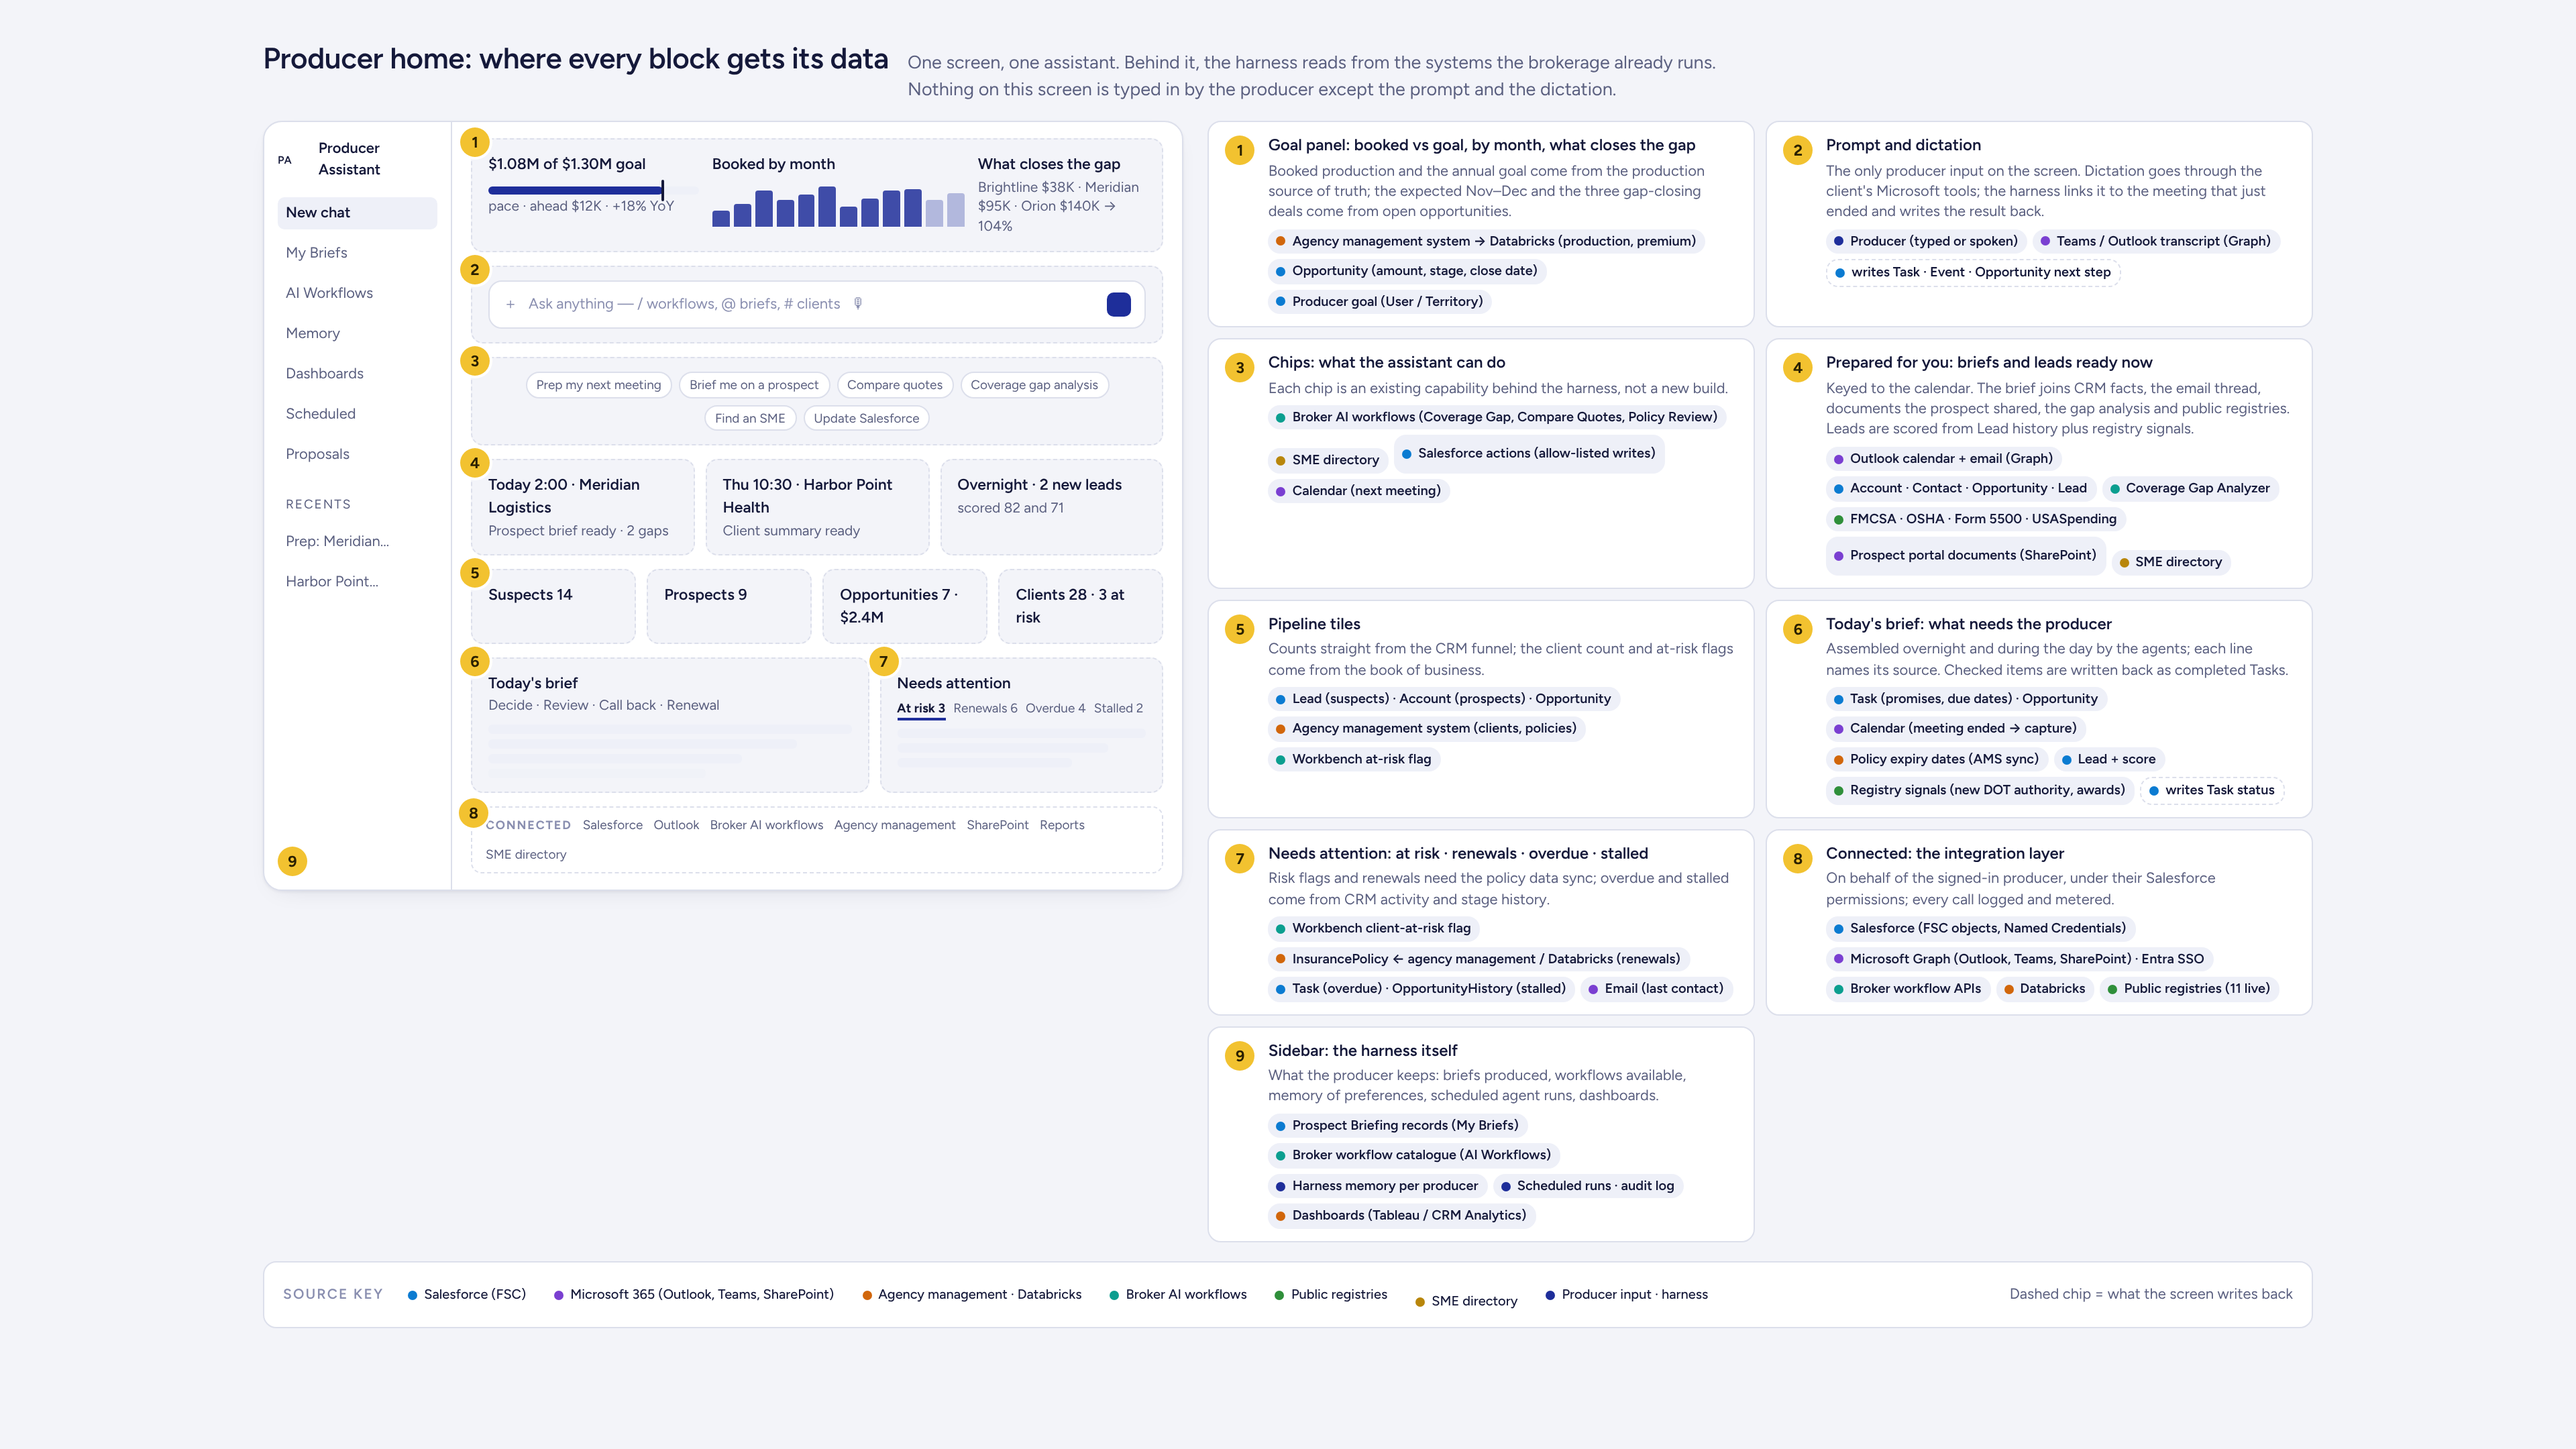
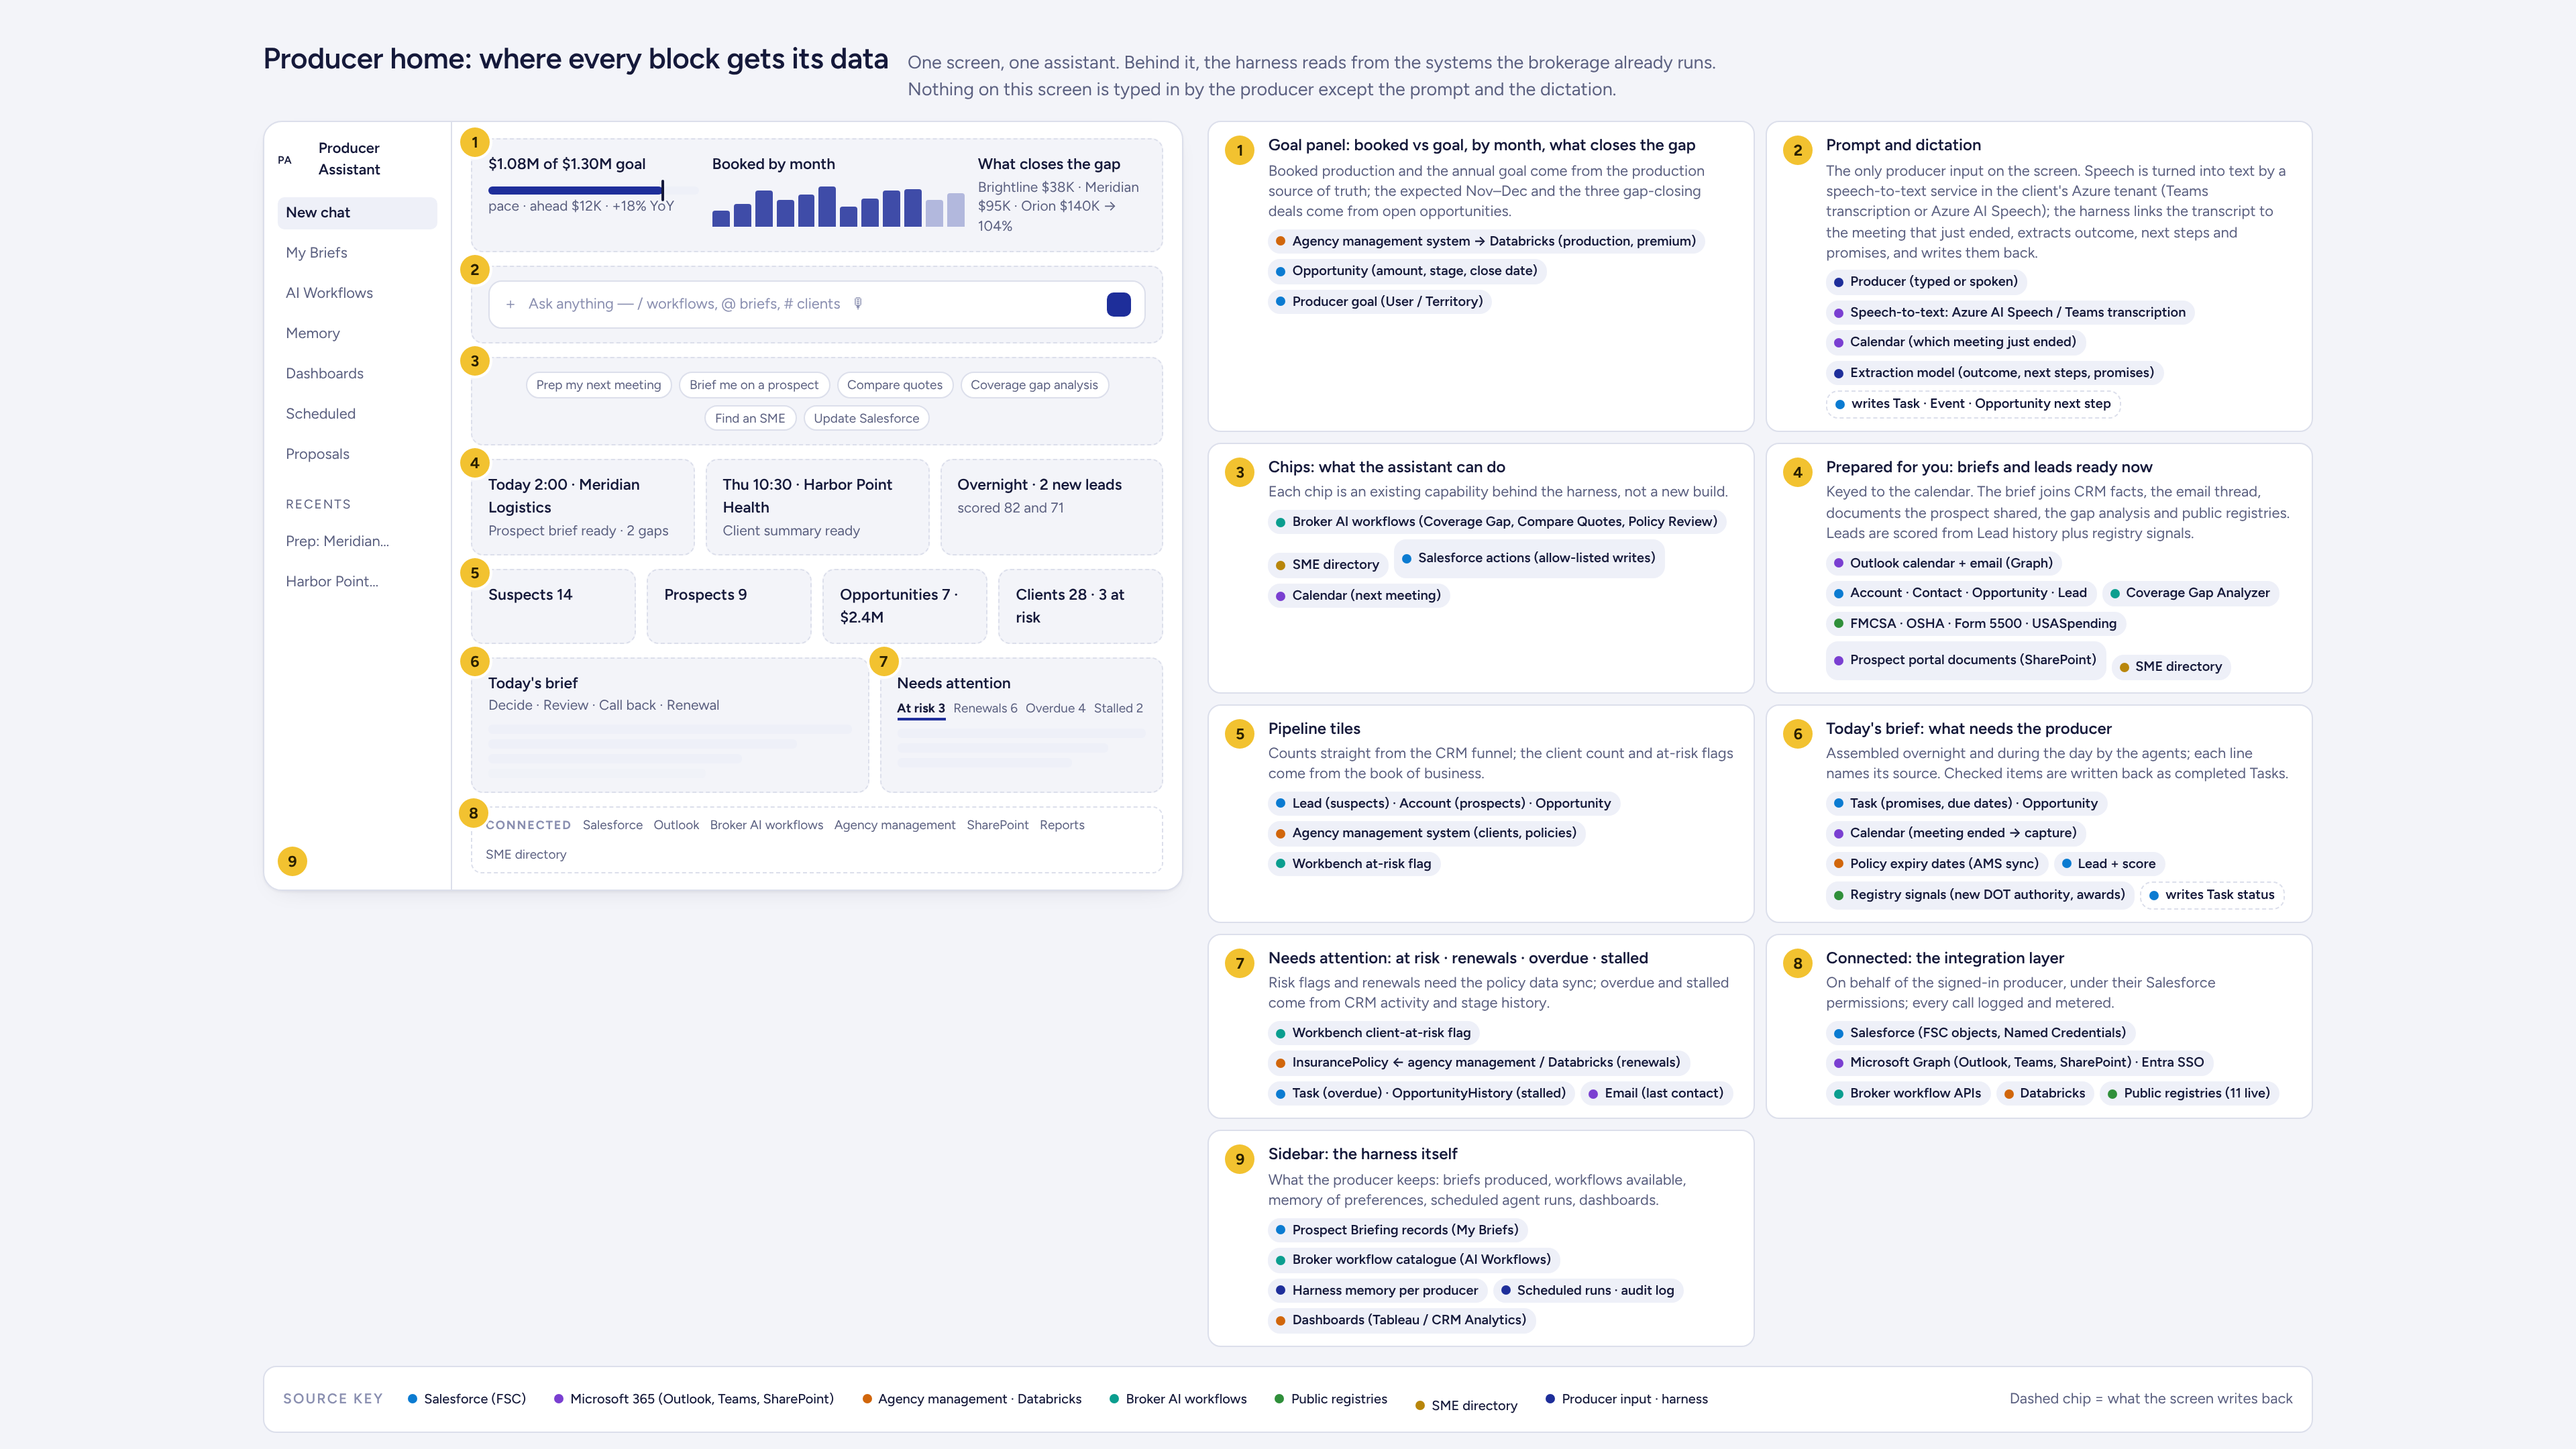
Data sources: name the speech-to-text step for dictation
Claude-Session: https://claude.ai/code/session_013wqjx2vbKkMPNAmFb2gjce

Changed region(s): [[0.6875, 0.0931, 0.875, 0.7755], [0.4688, 0.2171, 0.6562, 0.9306], [0.8438, 0.7444, 0.875, 0.7755]]

diff --git a/index.html b/index.html
@@ -783,7 +783,7 @@ h1,h2,h3{margin:0;text-wrap:balance}
           <!-- legend -->
           <div class="legend-list">
             <div class="lg"><span class="pin">1</span><div><b>Goal panel: booked vs goal, by month, what closes the gap</b><div class="d">Booked production and the annual goal come from the production source of truth; the expected Nov–Dec and the three gap-closing deals come from open opportunities.</div><div class="srcs"><span class="sc ams">Agency management system → Databricks (production, premium)</span><span class="sc sf">Opportunity (amount, stage, close date)</span><span class="sc sf">Producer goal (User / Territory)</span></div></div></div>
-            <div class="lg"><span class="pin">2</span><div><b>Prompt and dictation</b><div class="d">The only producer input on the screen. Dictation goes through the client's Microsoft tools; the harness links it to the meeting that just ended and writes the result back.</div><div class="srcs"><span class="sc in">Producer (typed or spoken)</span><span class="sc ms">Teams / Outlook transcript (Graph)</span><span class="sc sf w">writes Task · Event · Opportunity next step</span></div></div></div>
+            <div class="lg"><span class="pin">2</span><div><b>Prompt and dictation</b><div class="d">The only producer input on the screen. Speech is turned into text by a speech-to-text service in the client's Azure tenant (Teams transcription or Azure AI Speech); the harness links the transcript to the meeting that just ended, extracts outcome, next steps and promises, and writes them back.</div><div class="srcs"><span class="sc in">Producer (typed or spoken)</span><span class="sc ms">Speech-to-text: Azure AI Speech / Teams transcription</span><span class="sc ms">Calendar (which meeting just ended)</span><span class="sc in">Extraction model (outcome, next steps, promises)</span><span class="sc sf w">writes Task · Event · Opportunity next step</span></div></div></div>
             <div class="lg"><span class="pin">3</span><div><b>Chips: what the assistant can do</b><div class="d">Each chip is an existing capability behind the harness, not a new build.</div><div class="srcs"><span class="sc wf">Broker AI workflows (Coverage Gap, Compare Quotes, Policy Review)</span><span class="sc sme">SME directory</span><span class="sc sf">Salesforce actions (allow-listed writes)</span><span class="sc ms">Calendar (next meeting)</span></div></div></div>
             <div class="lg"><span class="pin">4</span><div><b>Prepared for you: briefs and leads ready now</b><div class="d">Keyed to the calendar. The brief joins CRM facts, the email thread, documents the prospect shared, the gap analysis and public registries. Leads are scored from Lead history plus registry signals.</div><div class="srcs"><span class="sc ms">Outlook calendar + email (Graph)</span><span class="sc sf">Account · Contact · Opportunity · Lead</span><span class="sc wf">Coverage Gap Analyzer</span><span class="sc reg">FMCSA · OSHA · Form 5500 · USASpending</span><span class="sc ms">Prospect portal documents (SharePoint)</span><span class="sc sme">SME directory</span></div></div></div>
             <div class="lg"><span class="pin">5</span><div><b>Pipeline tiles</b><div class="d">Counts straight from the CRM funnel; the client count and at-risk flags come from the book of business.</div><div class="srcs"><span class="sc sf">Lead (suspects) · Account (prospects) · Opportunity</span><span class="sc ams">Agency management system (clients, policies)</span><span class="sc wf">Workbench at-risk flag</span></div></div></div>
